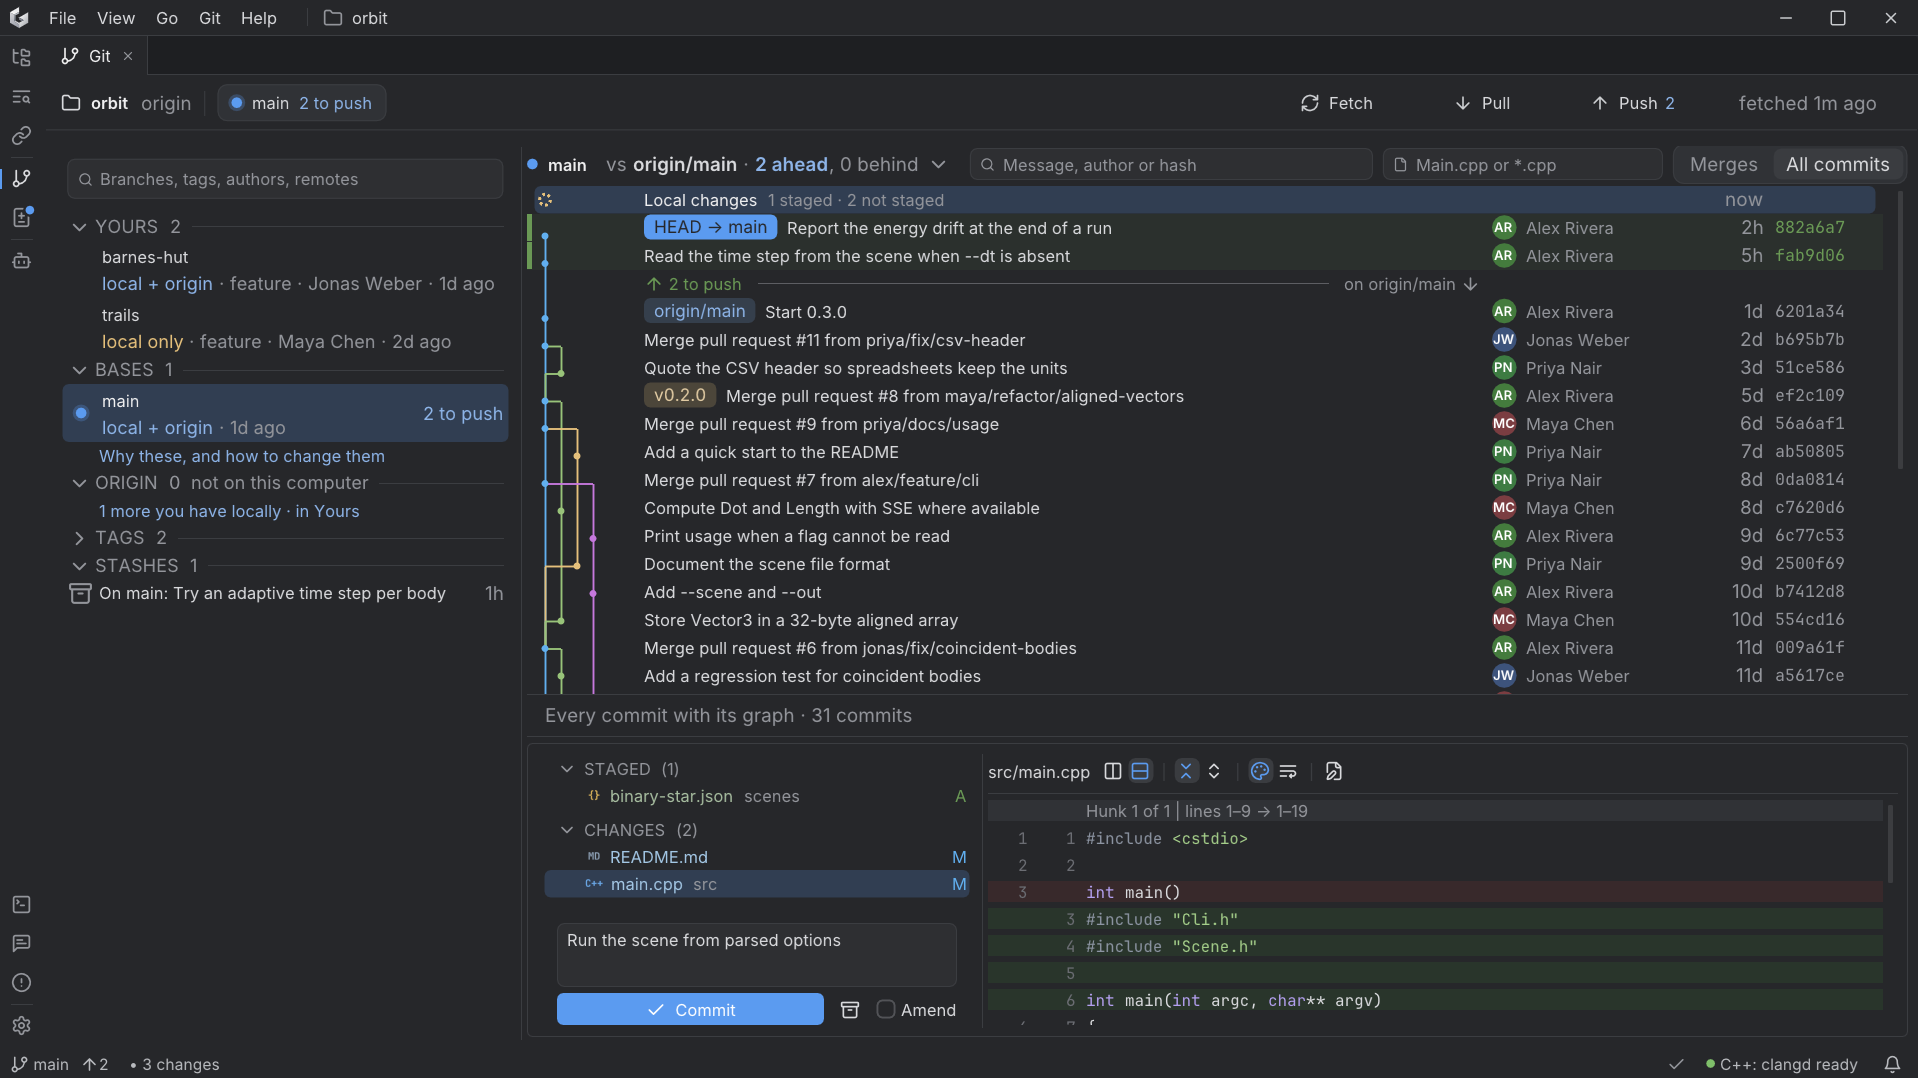
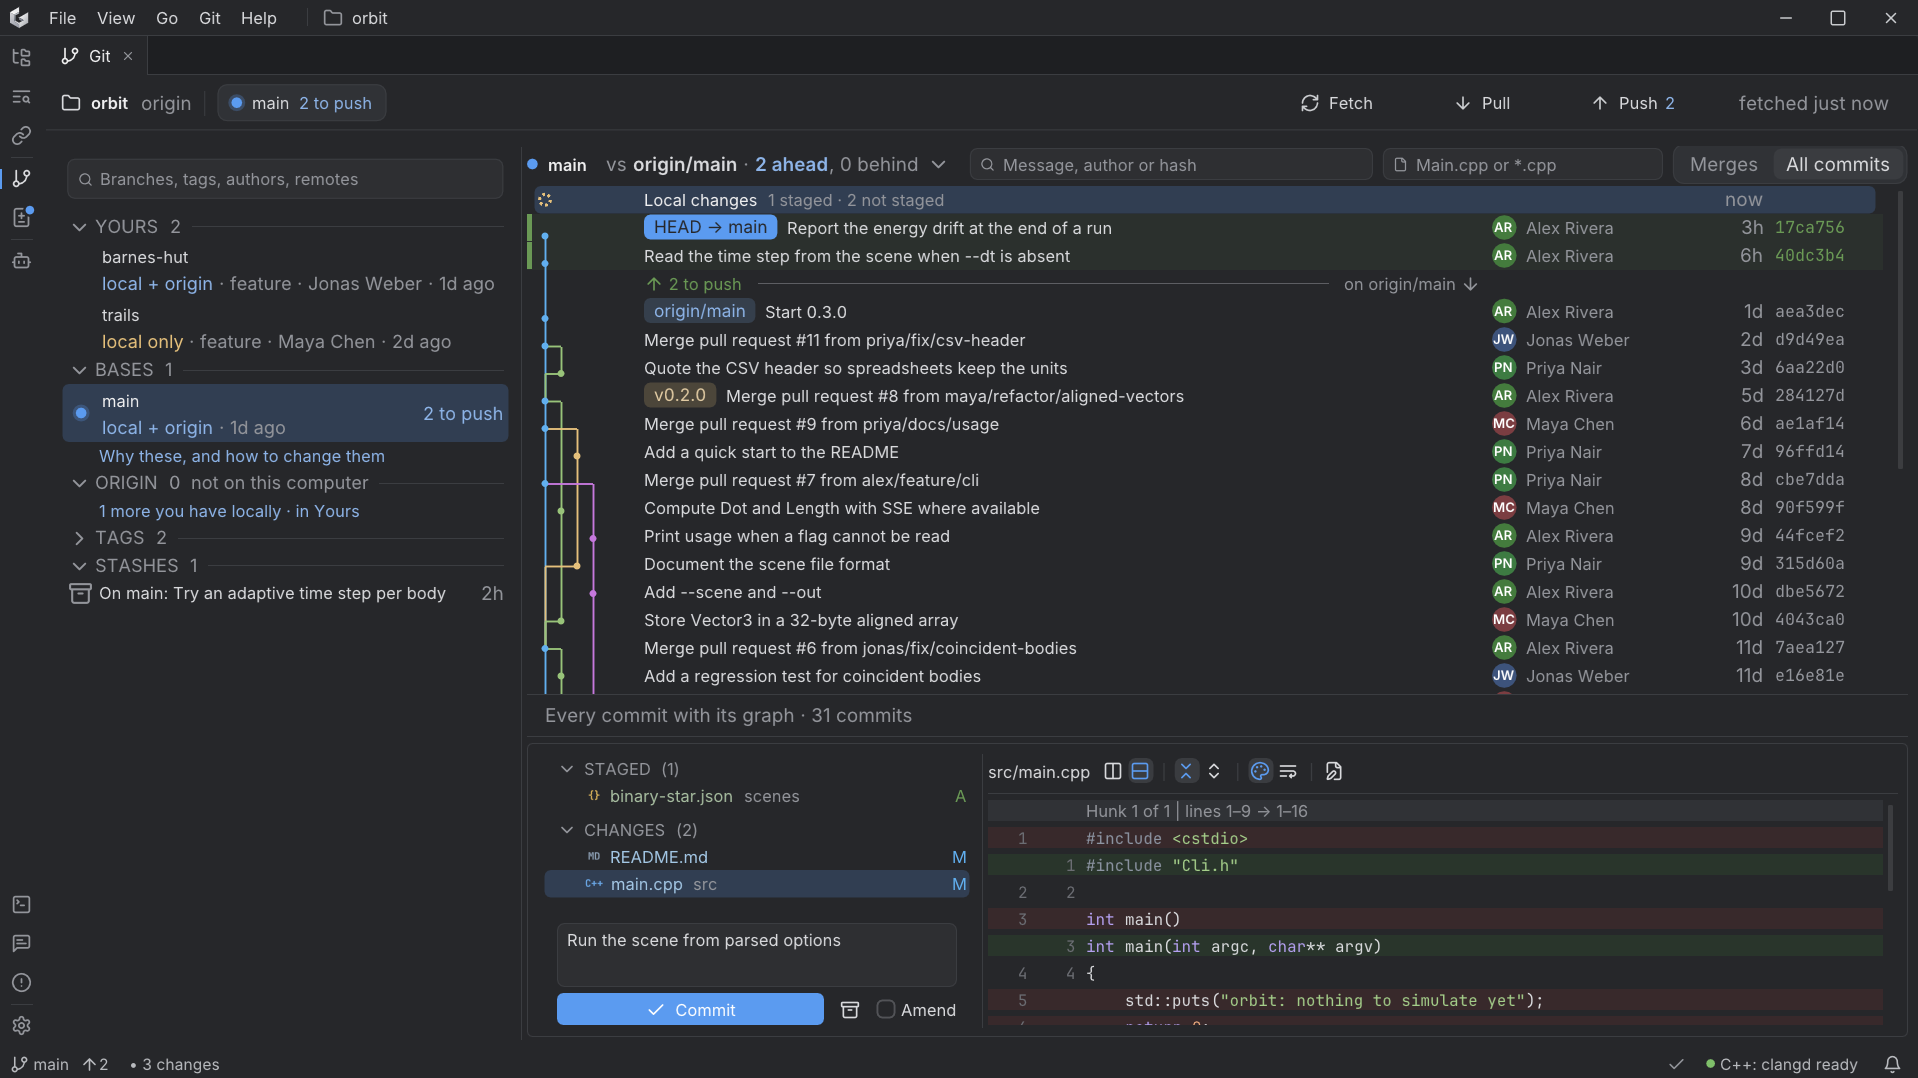
docs: show the README's screenshots full width in collapsible sections and add the branch review, diff, search, solution, image, hex and key binding views

diff --git a/README.md b/README.md
@@ -79,12 +79,77 @@
 
 ## Screenshots
 
-| | |
-|---|---|
-| ![The Git window: branches, tags and a stash in the sidebar, the history with its graph and the commits not yet pushed, and a staged file's diff](docs/images/git-window.png) | ![The Command Palette over the editor, with the Changes panel on the left](docs/images/command-palette.png) |
-| **Git window** — history graph, branches, stash, unpushed commits and a diff | **Command Palette** — with the Changes panel |
-| ![The editor in the Gruvbox Dark theme](docs/images/theme-gruvbox.png) | ![The Appearance page of Settings, listing the built-in themes](docs/images/settings.png) |
-| **Themes** — Gruvbox Dark | **Settings** — Appearance |
+<details open>
+<summary><b>Git window</b> — history graph, branches, tags, a stash, commits not yet pushed and a diff</summary>
+
+![The Git window: branches, tags and a stash in the sidebar, the history with its graph and the commits not yet pushed, and the diff of a changed file](docs/images/git-window.png)
+
+</details>
+
+<details>
+<summary><b>Branch review</b> — a branch against its base, with files marked as viewed</summary>
+
+![A review of a feature branch against origin/main: the changed files with two marked as viewed, and the diff of a new file](docs/images/branch-review.png)
+
+</details>
+
+<details>
+<summary><b>Diff</b> — uncommitted changes side by side</summary>
+
+![The Changes panel and a side-by-side diff of a modified file](docs/images/diff.png)
+
+</details>
+
+<details>
+<summary><b>Command Palette</b> — every command by a few letters of its name</summary>
+
+![The Command Palette over the editor, filtered to the Go to commands, with the Changes panel on the left](docs/images/command-palette.png)
+
+</details>
+
+<details>
+<summary><b>Find in Files</b></summary>
+
+![Find in Files under the editor, listing the matches grouped by file](docs/images/find-in-files.png)
+
+</details>
+
+<details>
+<summary><b>Solution view</b> — a Visual Studio solution's projects and folders</summary>
+
+![The Explorer showing a Visual Studio solution with its projects grouped into folders](docs/images/solution-view.png)
+
+</details>
+
+<details>
+<summary><b>Image viewer</b></summary>
+
+![An icon file open in the image viewer, with the zoom and background controls](docs/images/image-viewer.png)
+
+</details>
+
+<details>
+<summary><b>Hex viewer</b> — for files that are not text</summary>
+
+![A font file open in the hex viewer, with a selected byte and its values in the status bar](docs/images/hex-viewer.png)
+
+</details>
+
+<details>
+<summary><b>Themes</b> — the editor in Gruvbox Dark, and the built-in themes</summary>
+
+![The editor in the Gruvbox Dark theme](docs/images/theme-gruvbox.png)
+
+![The Appearance page of Settings with the list of built-in themes open](docs/images/settings.png)
+
+</details>
+
+<details>
+<summary><b>Key bindings</b> — every shortcut rebindable, with where it applies</summary>
+
+![The Key Bindings page of Settings filtered to line commands, with their shortcuts and where each one fires](docs/images/key-bindings.png)
+
+</details>
 
 ## Platform support
 
